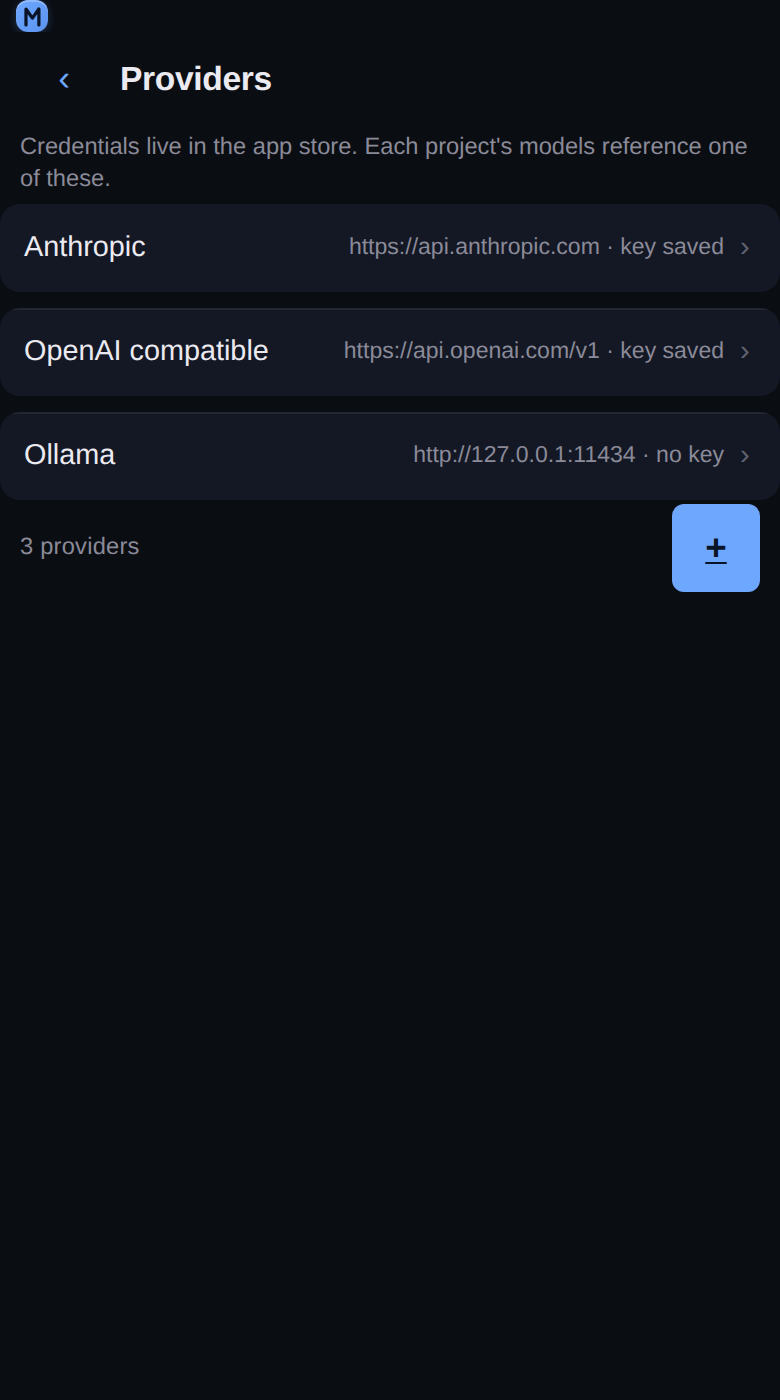
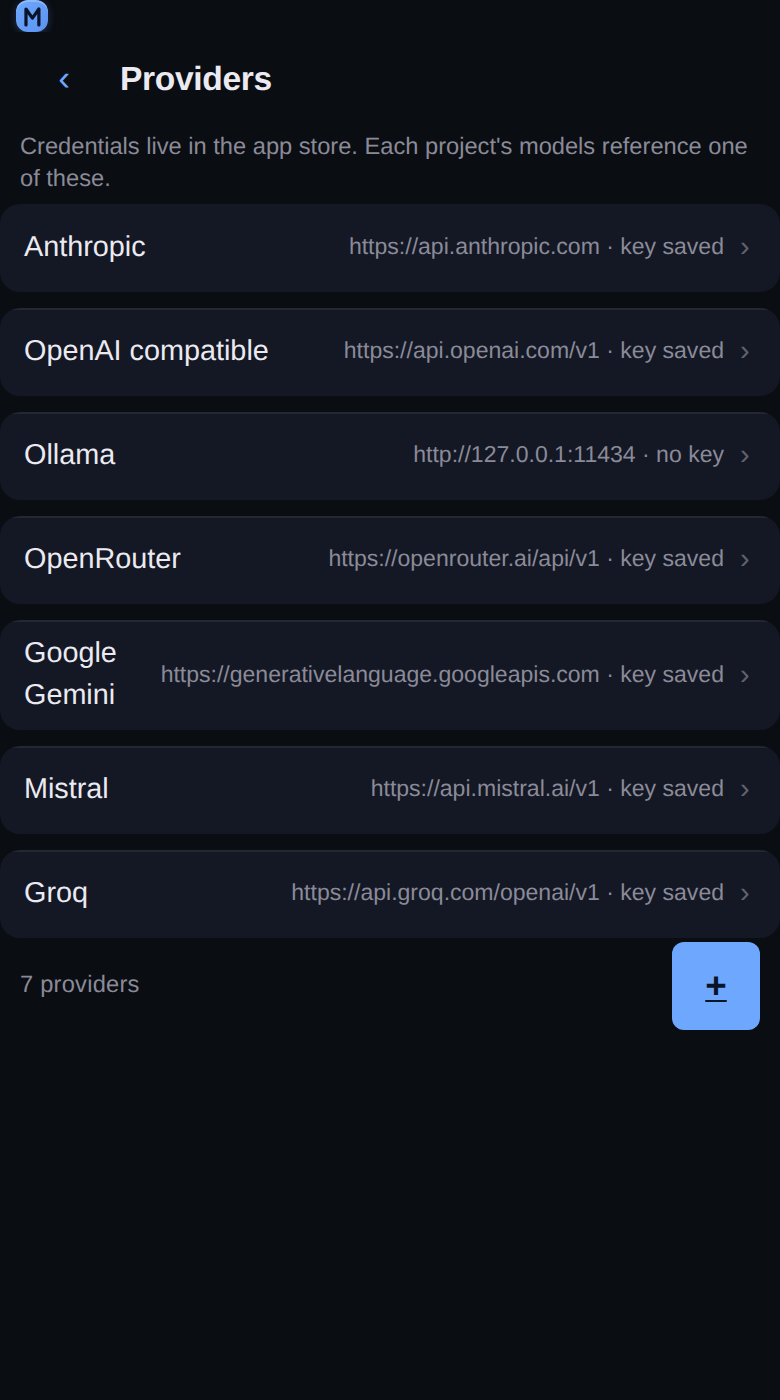
docs: re-capture the landing screenshots and drop unused images
- fixture: a second project and more chats on the Chats tab, seven
  providers, so no capture is half empty
- chat capture backs up to the first message the top edge would cut
- re-shot all seven captures on the current UI (after the path and
  plural fixes)
- delete 14 images no page references (inspector/*, settings-ui/*,
  chat-ui/chat-view.png)
- update captions and docs-site.md

diff --git a/scripts/lib/landing-fixture.js b/scripts/lib/landing-fixture.js
@@ -3,7 +3,7 @@
 //
 // Everything the landing-page captures need to look like a real working
 // session — one fixed chat id, a transcript that is a genuine agentic run,
-// three connected providers, two project models and the Inspector's preview
+// seven connected providers, two project models and the Inspector's preview
 // page. Kept in its own module because the capture script is plumbing; this is
 // the content, and it is easier to keep honest when it lives in one place.
 
@@ -17,7 +17,11 @@ const CHAT_TITLE = 'Fix task ordering after restart';
 const PROVIDERS = [
   { id: 'anthropic', baseUrl: 'https://api.anthropic.com', apiKey: 'sk-ant-demo-not-a-real-key', auth: 'apikey' },
   { id: 'openai-compatible', baseUrl: 'https://api.openai.com/v1', apiKey: 'sk-demo-not-a-real-key', auth: 'apikey' },
-  { id: 'ollama', baseUrl: 'http://127.0.0.1:11434', auth: 'apikey' }
+  { id: 'ollama', baseUrl: 'http://127.0.0.1:11434', auth: 'apikey' },
+  { id: 'openrouter', baseUrl: 'https://openrouter.ai/api/v1', apiKey: 'sk-or-demo-not-a-real-key', auth: 'apikey' },
+  { id: 'gemini', baseUrl: 'https://generativelanguage.googleapis.com', apiKey: 'demo-not-a-real-key', auth: 'apikey' },
+  { id: 'mistral', baseUrl: 'https://api.mistral.ai/v1', apiKey: 'demo-not-a-real-key', auth: 'apikey' },
+  { id: 'groq', baseUrl: 'https://api.groq.com/openai/v1', apiKey: 'gsk-demo-not-a-real-key', auth: 'apikey' }
 ];
 
 const MODELS = [
@@ -34,8 +38,19 @@ function installProviders(settings) {
 const EXTRA_CHATS = [
   { title: 'Add a done toggle to the board', draft: '' },
   { title: 'Review the restart fix', draft: '' },
-  { title: 'Cache the task list for one request', draft: 'Reuse the loaded rows instead of re-querying per task.' }
+  { title: 'Cache the task list for one request', draft: 'Reuse the loaded rows instead of re-querying per task.' },
+  { title: 'Explain the store module', draft: '' },
+  { title: 'Add a test for empty boards', draft: '' },
+  { title: 'Tidy the board styles on mobile', draft: '' },
+  { title: 'Bump dependencies', draft: '' }
 ];
+
+// The second project on the Chats tab: a couple of plain chats, no transcript.
+function seedSecondProject(projectDir, chats) {
+  for (const title of ['Add rate limiting to /login', 'Document the REST endpoints']) {
+    chats.createChat(projectDir, { title });
+  }
+}
 
 function installProjectModels(projectDir) {
   const settings = require('../../src/settings.js');
@@ -266,6 +281,7 @@ module.exports = {
   MODELS,
   installProviders,
   seedChats,
+  seedSecondProject,
   installProjectModels,
   transcript,
   writePreviewPage

diff --git a/scripts/capture-landing-shots.js b/scripts/capture-landing-shots.js
@@ -13,7 +13,7 @@
 //      providers and projects are never read or written;
 //   2. a small fixture project (source files, AGENTS.md, one git commit) in
 //      that home, registered as the only project;
-//   3. two project models over three app-level providers, and one seeded chat
+//   3. two project models over seven app-level providers, a second project, and one seeded chat
 //      whose transcript is a real agentic run — a `read_file`, a
 //      `search_files`, a `write_file` and a `shell` card, each carrying the
 //      JSON shape its tool returns, so the cards render as they do live;
@@ -274,7 +274,16 @@ const SHOTS = [
       // Pin to the bottom, which is what the chat itself does on open, so the
       // shot shows the end of the run rather than the top of the transcript.
       const t = document.querySelector('.chat-view__transcript');
-      if (t) t.scrollTop = t.scrollHeight;
+      if (!t) return;
+      t.scrollTop = t.scrollHeight;
+      // Then back up to the top of the first message that is cut off at the
+      // top edge, so no bubble or role label is sliced in half.
+      const top = t.getBoundingClientRect().top;
+      const cut = Array.from(t.querySelectorAll('.chat-msg')).find((m) => {
+        const r = m.getBoundingClientRect();
+        return r.top < top && r.bottom > top;
+      });
+      if (cut) t.scrollTop -= top - cut.getBoundingClientRect().top + 8;
     })()`
   },
   {
@@ -372,6 +381,13 @@ async function main() {
 
       settings.runMigrations();
       projects.registerProject(projectDir);
+      // A second, smaller project so the Chats tab shows the project-card
+      // grouping instead of one card over an empty screen.
+      const secondDir = path.join(tempRoot, 'api-server');
+      fs.mkdirSync(secondDir, { recursive: true });
+      fs.writeFileSync(path.join(secondDir, 'README.md'), '# api-server\n');
+      projects.registerProject(secondDir);
+      seed.seedSecondProject(secondDir, chats);
       seed.installProviders(settings);
       seed.installProjectModels(projectDir);
       const seeded = seed.seedChats(projectDir, chats, messages);

diff --git a/scripts/build-docs.js b/scripts/build-docs.js
@@ -1196,7 +1196,7 @@ function buildLandingPage(outDir) {
 const landingShots = [
   [
     'features/images/landing/chats-list.png',
-    'The Chats tab at 390 px: a project card holding its own chat list, a draft-only chat shown in italics, and a New chat button under it.',
+    'The Chats tab at 390 px: two project cards, each holding its own scrolling chat list with a New chat button under it.',
     'Chats — projects group their own chats'
   ],
   [
@@ -1211,7 +1211,7 @@ const landingShots = [
   ],
   [
     'features/images/landing/providers.png',
-    'Settings → Providers at 390 px: three connected providers, each row naming its endpoint and whether a key is stored.',
+    'Settings → Providers at 390 px: seven connected providers, each row naming its endpoint and whether a key is stored.',
     'Providers — connect them once, app-wide'
   ],
   [

diff --git a/docs/features/docs-site.md b/docs/features/docs-site.md
@@ -30,10 +30,10 @@ The seven captures, in page order:
 
 | Capture | What it shows |
 |---------|---------------|
-| `chats-list.png` | The Chats tab — a project card holding its own chat list, a draft-only chat in italics, and **New chat** |
+| `chats-list.png` | The Chats tab — two project cards, each holding its own scrolling chat list and **New chat** |
 | `chat-tools.png` | A brand-new chat — the system-prompt card and the **Tools** card, one checkbox and one **Off / Ask / Allow** control per tool |
 | `chat-view.png` | A chat at the end of a run — the model header, per-turn cost lines, and the **Read**, **Searched**, **Wrote** and **Ran** tool cards |
-| `providers.png` | Settings → Providers — three connected providers, each naming its endpoint and whether a key is stored |
+| `providers.png` | Settings → Providers — seven connected providers, each naming its endpoint and whether a key is stored |
 | `project-settings.png` | Project settings — prompt style, then every tool with its own **Off / Ask / Allow** control |
 | `inspector.png` | The Inspector attached to a page over CDP — target bar, panel chips, live preview, console input |
 | `settings.png` | The Settings tab — providers first, then the app defaults that apply to every project |
@@ -68,7 +68,7 @@ Every capture is produced by one command:
 npm run docs:shots
 ```
 
-[scripts/capture-landing-shots.js](../../scripts/capture-landing-shots.js) is self-contained: it creates a throwaway `MOUAIF_HOME` under the OS temp dir, writes a small fixture project (source files, `AGENTS.md`, one git commit) and registers it, connects three app-level providers, seeds two project models and a chat whose transcript is a real agentic run, starts a static page for the Inspector to attach to, launches a headless Chrome with `--remote-debugging-port`, and boots the app server on an ephemeral port. Each screen is then a fresh tab emulated at 390 × 700 CSS px with a device scale factor of 2, so the PNGs are 780 × 1400 and stay sharp on a retina phone.
+[scripts/capture-landing-shots.js](../../scripts/capture-landing-shots.js) is self-contained: it creates a throwaway `MOUAIF_HOME` under the OS temp dir, writes a small fixture project (source files, `AGENTS.md`, one git commit) plus a second, empty one and registers both, connects seven app-level providers, seeds two project models and a chat whose transcript is a real agentic run (the chat capture scrolls to the end of the run, then back to the first message the top edge would cut), starts a static page for the Inspector to attach to, launches a headless Chrome with `--remote-debugging-port`, and boots the app server on an ephemeral port. Each screen is then a fresh tab emulated at 390 × 700 CSS px with a device scale factor of 2, so the PNGs are 780 × 1400 and stay sharp on a retina phone.
 
 Because the fixture home is throwaway, the capture never reads or writes the developer's own chats, providers or projects, and re-running it after a UI change is the expected workflow.
 
